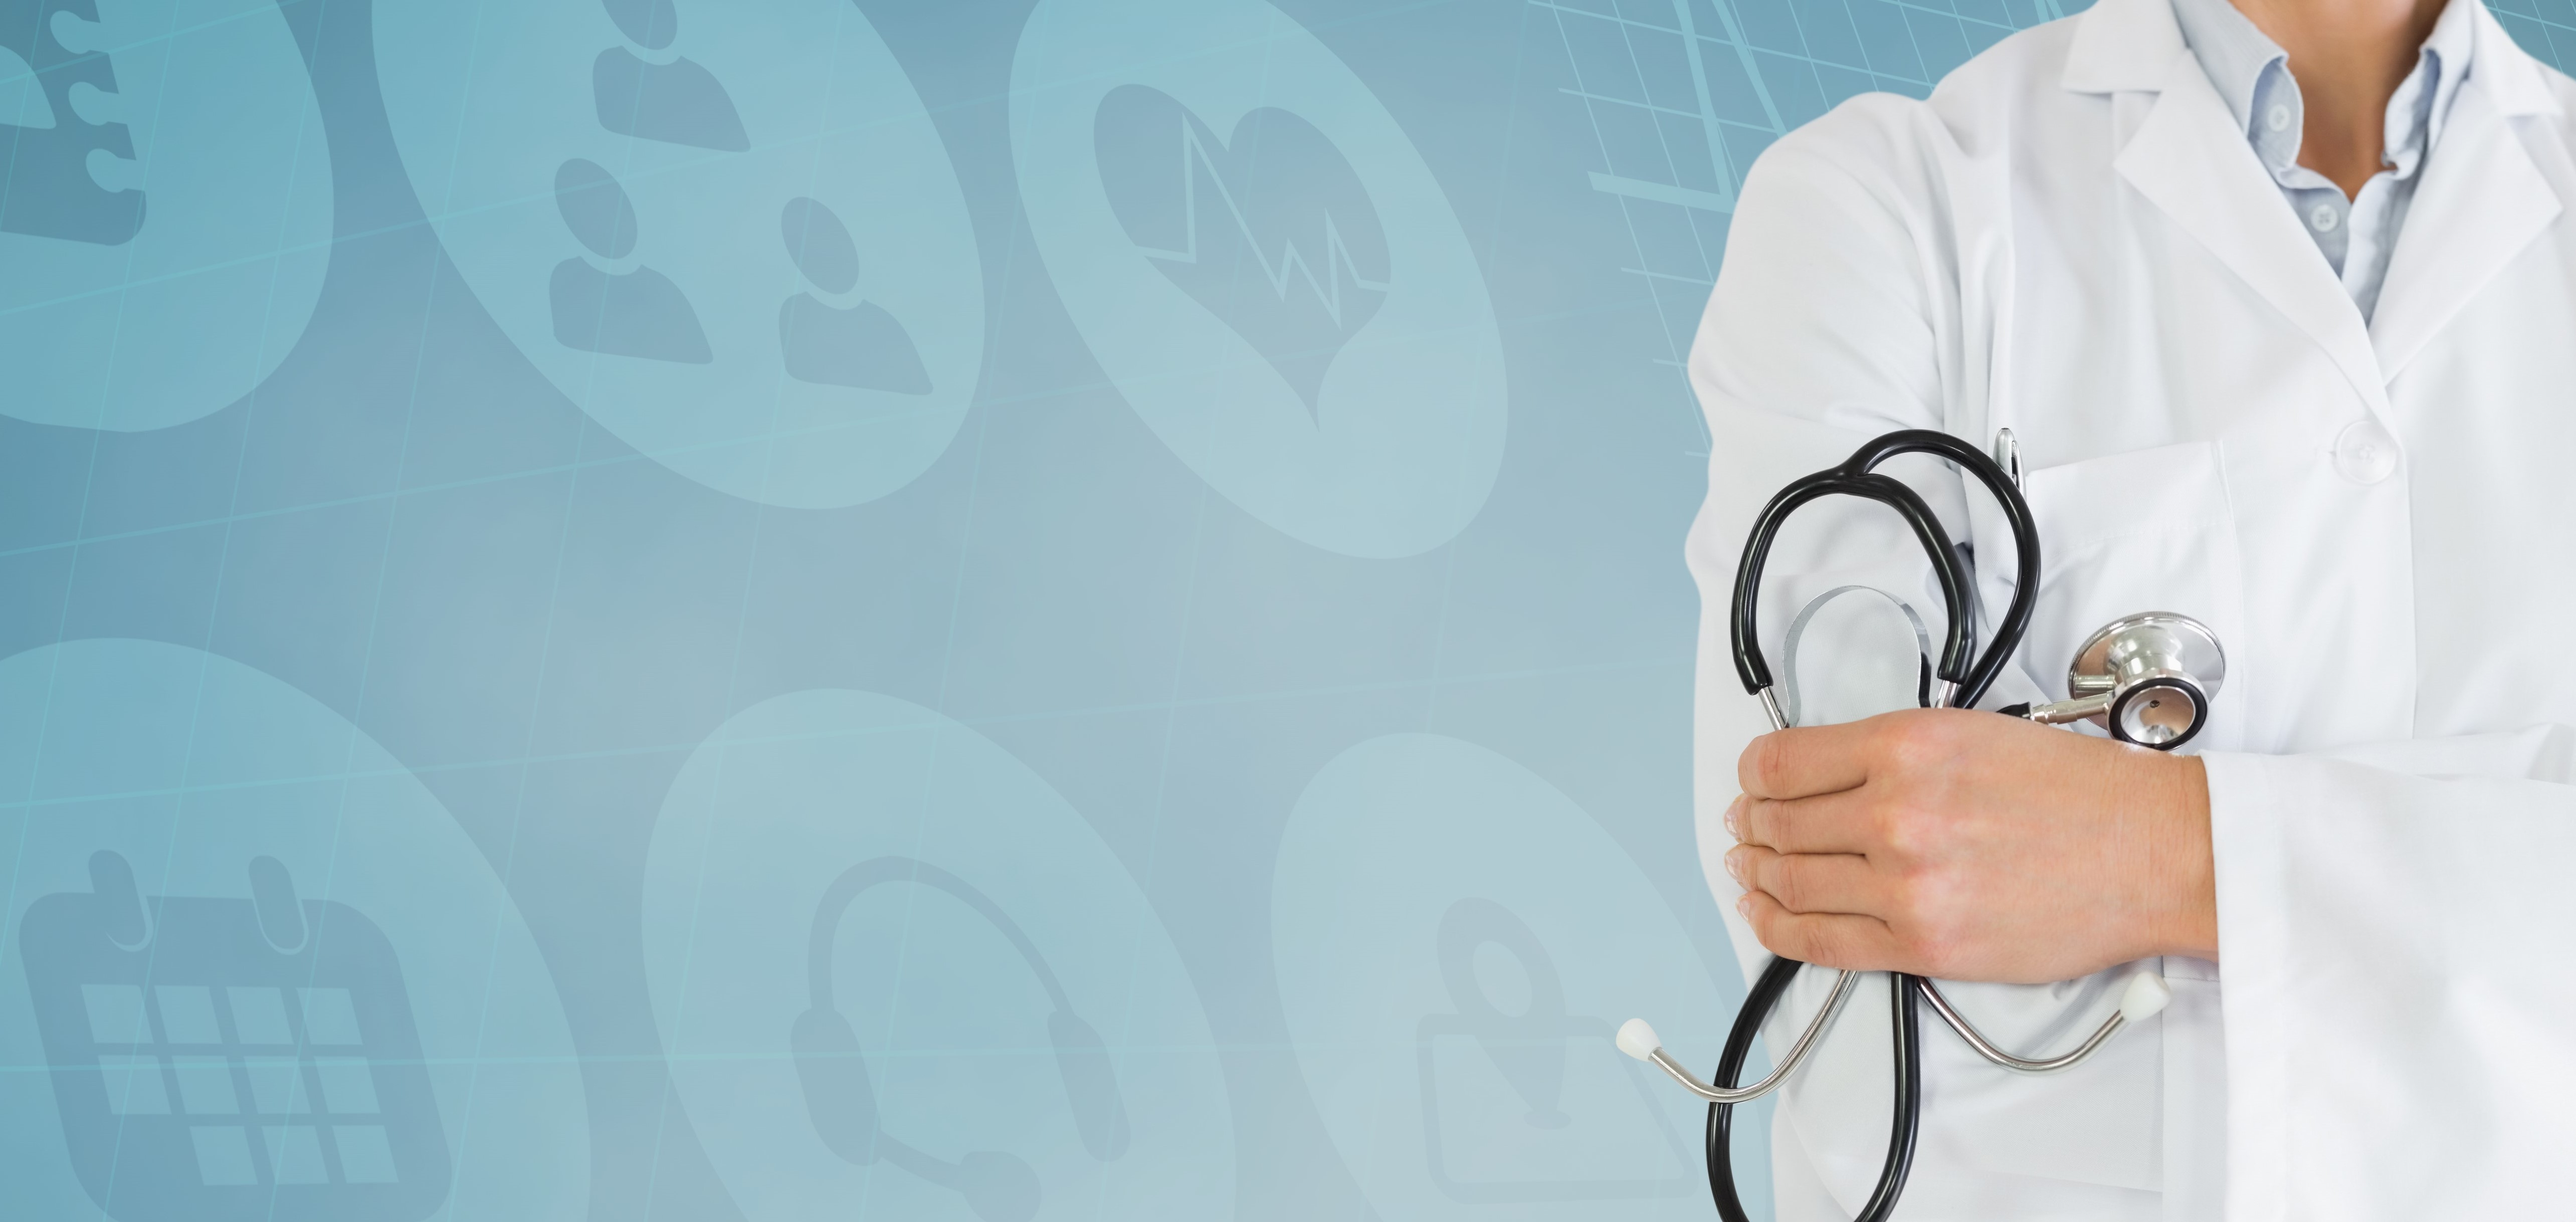
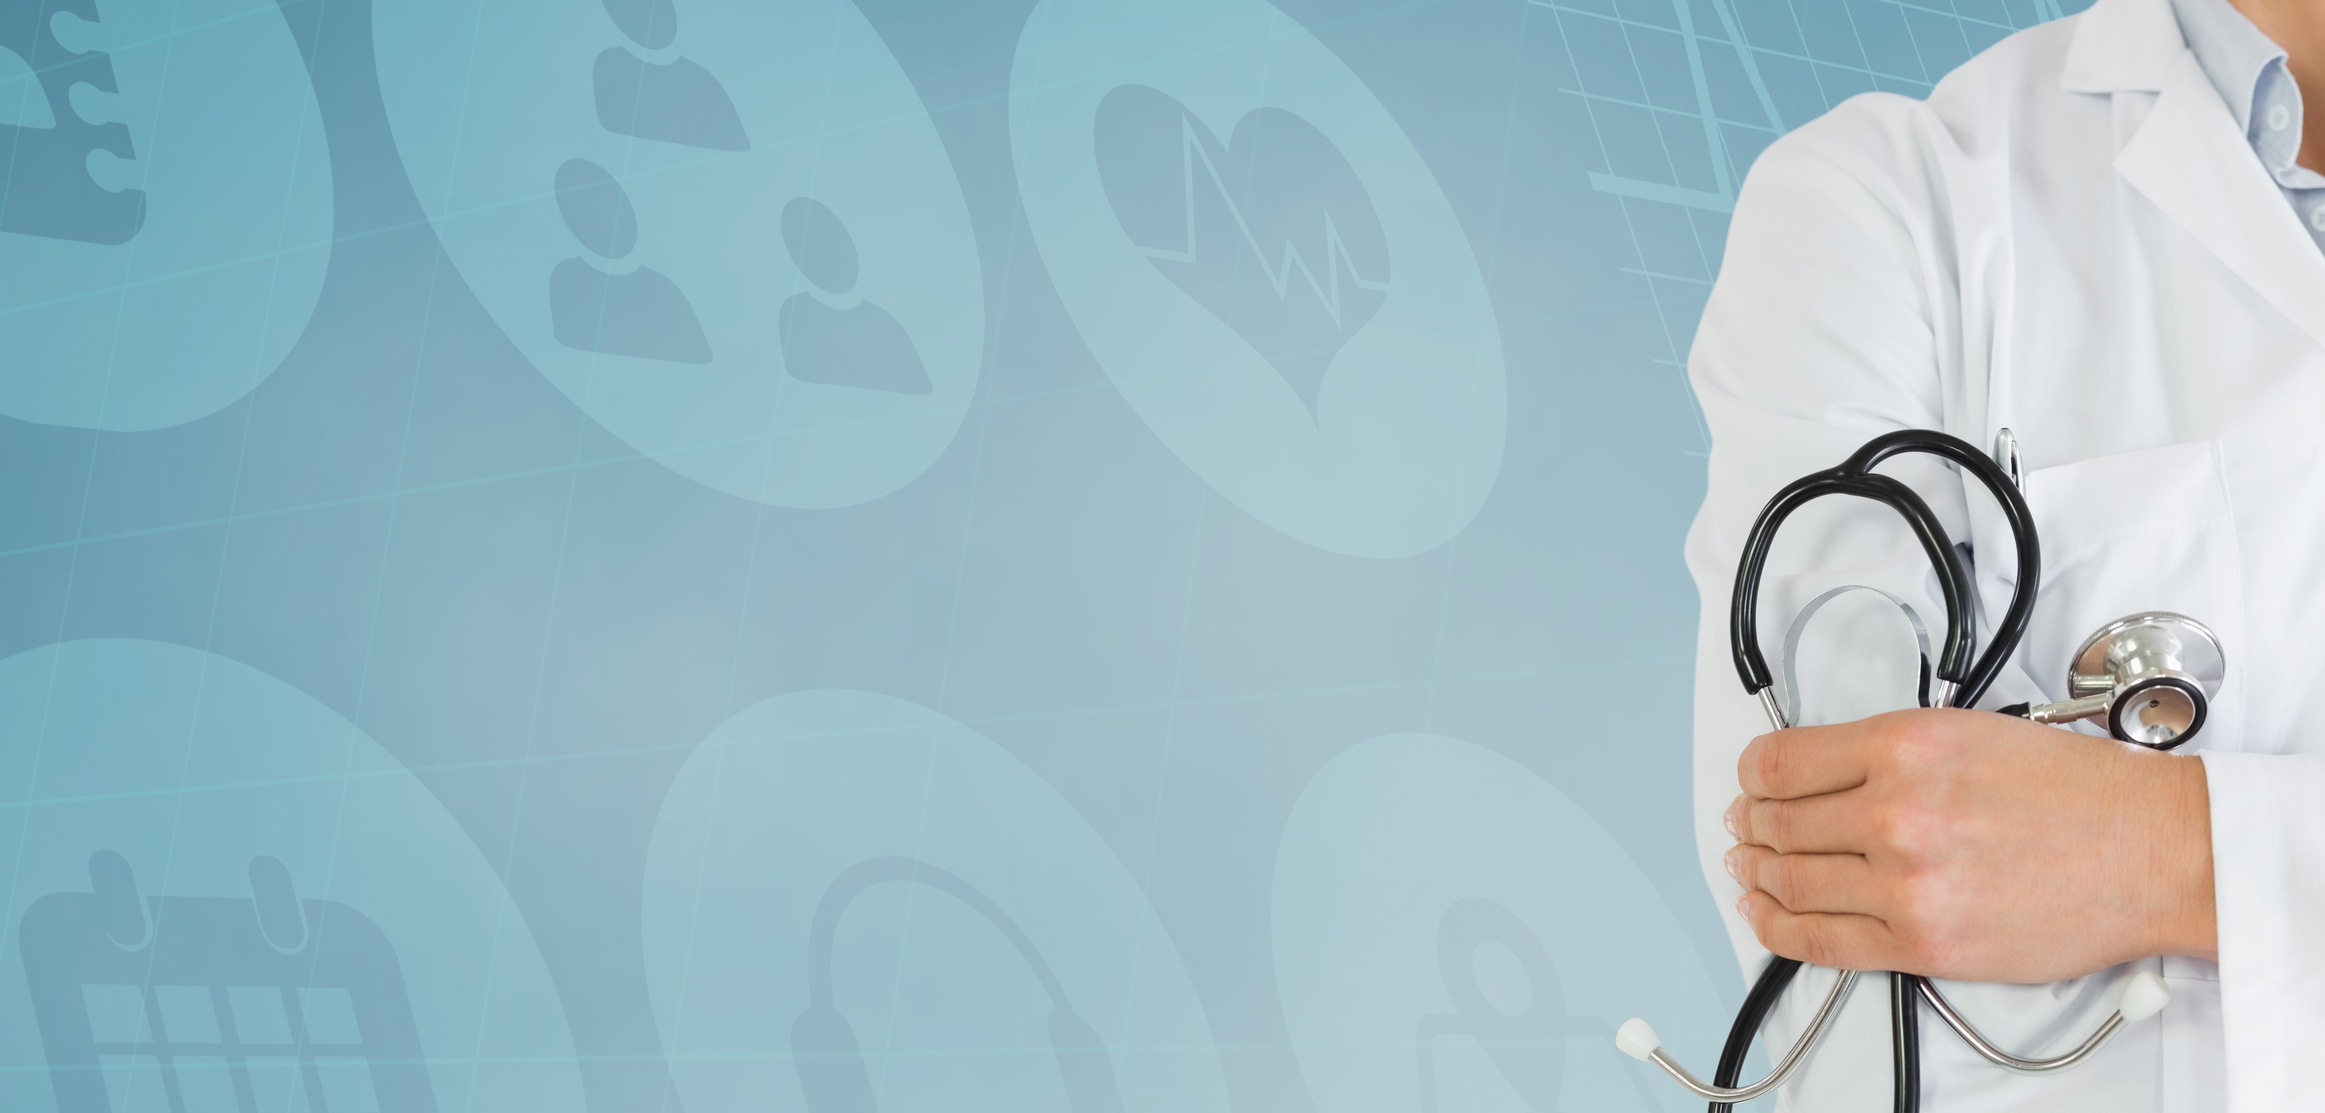
Update homePage

diff --git a/src/frontend/homePage.php b/src/frontend/homePage.php
@@ -1,5 +1,7 @@
 <?php
     include_once("models/User.php");
+    include_once("requests/HttpRequests.php");
+    require_once("config/config.php");
     session_start();
     if (!isset($_SESSION["user"])){
         header("Location: /login.php");
@@ -18,7 +20,6 @@
         <link rel="stylesheet" href="css/header.css"/>
         <link rel="stylesheet" href="css/homePage.css"/>
         <link rel="stylesheet" href="css/form.css"/>
-        <!-- <script src="https://cdnjs.cloudflare.com/ajax/libs/Chart.js/2.5.0/Chart.min.js"></script> -->
     </head>
     <body>
         <div class="header">
@@ -31,7 +32,7 @@
                 <div class="jumbotron">                
                     <div id="banner" class="carousel slide">
                         <div class="carousel-inner">
-                            <img src="img/banner.jpg" class="d-block w-100" style="border-radius:20px;" alt="banner">
+                            <img src="img/banner.jpg" class="d-block w-100" style="border-radius:20px; height: 450px;" alt="banner">
                             <div class="centered-left">                
                                 <h4>Hola, <?php echo $user->get_full_name();?></h4><br>
                                 <h1 class="display-8" style="font-weight:700;">Bienvenido a Savana Barata</h1>
@@ -39,7 +40,6 @@
                                 <h2>Servicio de consultas y predicciones <br>
                                 sobre pacientes</h2>
                                 <br>                            
-                                <p>(Imagen de prueba, añadir otra mejor)</p>
                             </div>
                         </div>
                     </div>
@@ -48,7 +48,7 @@
                 <div class="jumbotron">
                     <h1>¿Qué puedes hacer en Savana Barata?</h1>
                     <hr>
-                    <div class="container mt-4 mb-4">
+                    <div class="container mt-4 mb-5">
                         <div class="d-flex justify-content-center">
                             <div class="row">
                                 <div class="col-md-4">
@@ -82,19 +82,40 @@
                             </div>  
                         </div>                      
                     </div>
-                </div>
+                    <div class="text-center">
+                        <?php
 
+                            $http_requests = new HttpRequests();
+                            $response = $http_requests->getResponse("$BACKEND_URL/numPatients", "GET", "", $user->get_token());
+                                                    
+                            if($response["status"] == 200) {                          
+                                $numPatients = $response["data"]->num_patients;                        
+                                echo "<h5 style='font-weight: bold;'>Actualmente la base de datos cuenta con " . $numPatients . " pacientes sobre los que se puede realizar consultas y predicciones.</h5>";
+                            }
+                            else {
+                                if($response["status"] == 400) {
+                                    unset($_SESSION["user"]);
+                                    $_SESSION["message"] = "La sesión ha caducado";
+                                    header("Location: ../login.php");
+                                }
+                            }                        
+                        ?>
+                    </div> 
+                </div>   
+                </div>
                 <div class="jumbotron">
-                    <p>Añadir información sobre la BBDD (número de pacientes que hay, qué 
-	                    datos se tiene de cada uno de ellos, etc)</p>
-                </div>                    
+                    <blockquote class="blockquote text-center bg-light py-3 px-0" style="border-radius:20px;">
+                        <div class="h5 mb-1 font-weight-bold font-italic">
+                            "El buen médico trata la enfermedad; el gran médico trata al paciente que tiene la enfermedad."
+                        </div>
+                        <footer class="blockquote-footer"><cite title="source">William Osler</cite></footer>
+                    </blockquote>             
+                </div>
             </div>
         </div>
 
         <footer class="bg-light text-center text-lg-start">
             <?php include_once("common/footer.php")?>
         </footer> 
-    </body>
-    
-    <!-- <script src="js/barGraphExample.js"></script> -->
+    </body>    
 </html>

diff --git a/src/frontend/registerPetitions.php b/src/frontend/registerPetitions.php
@@ -27,7 +27,6 @@
         <title>Solicitudes de registro</title>
         <link rel="stylesheet" href="css/forms.css"/>
         <link rel="stylesheet" href="css/registerPetitions.css"/>
-        <!-- <?php include_once("common/includes.php");?> -->
         <link rel="stylesheet" href="https://stackpath.bootstrapcdn.com/bootstrap/4.3.1/css/bootstrap.min.css" integrity="sha384-ggOyR0iXCbMQv3Xipma34MD+dH/1fQ784/j6cY/iJTQUOhcWr7x9JvoRxT2MZw1T" crossorigin="anonymous">
         <link rel="stylesheet" href="https://cdnjs.cloudflare.com/ajax/libs/font-awesome/6.0.0/css/all.min.css" integrity="sha512-9usAa10IRO0HhonpyAIVpjrylPvoDwiPUiKdWk5t3PyolY1cOd4DSE0Ga+ri4AuTroPR5aQvXU9xC6qOPnzFeg==" crossorigin="anonymous" referrerpolicy="no-referrer" />
         <link rel="stylesheet" href="css/formUserProfile.css"/>

diff --git a/src/backend/tfg_server.py b/src/backend/tfg_server.py
@@ -450,6 +450,26 @@ def doQuery():
 
     return response
 
+@app.route('/numPatients', methods=['GET'])
+@token_required
+def numPatients(current_user):
+    status = 400
+    response = {}
+
+    if request.method == 'GET':
+        
+        cursor = mydb.cursor()
+        query = f'SELECT COUNT(*) FROM patients'
+        cursor.execute(query)
+
+        num_patients = cursor.fetchone()
+        response['num_patients'] = num_patients[0]
+        cursor.close()
+
+        status = 200
+        
+        return response, status 
+
 class FlaskConfig:
     '''Configuración de Flask'''
     # Activa depurador y recarga automáticamente
